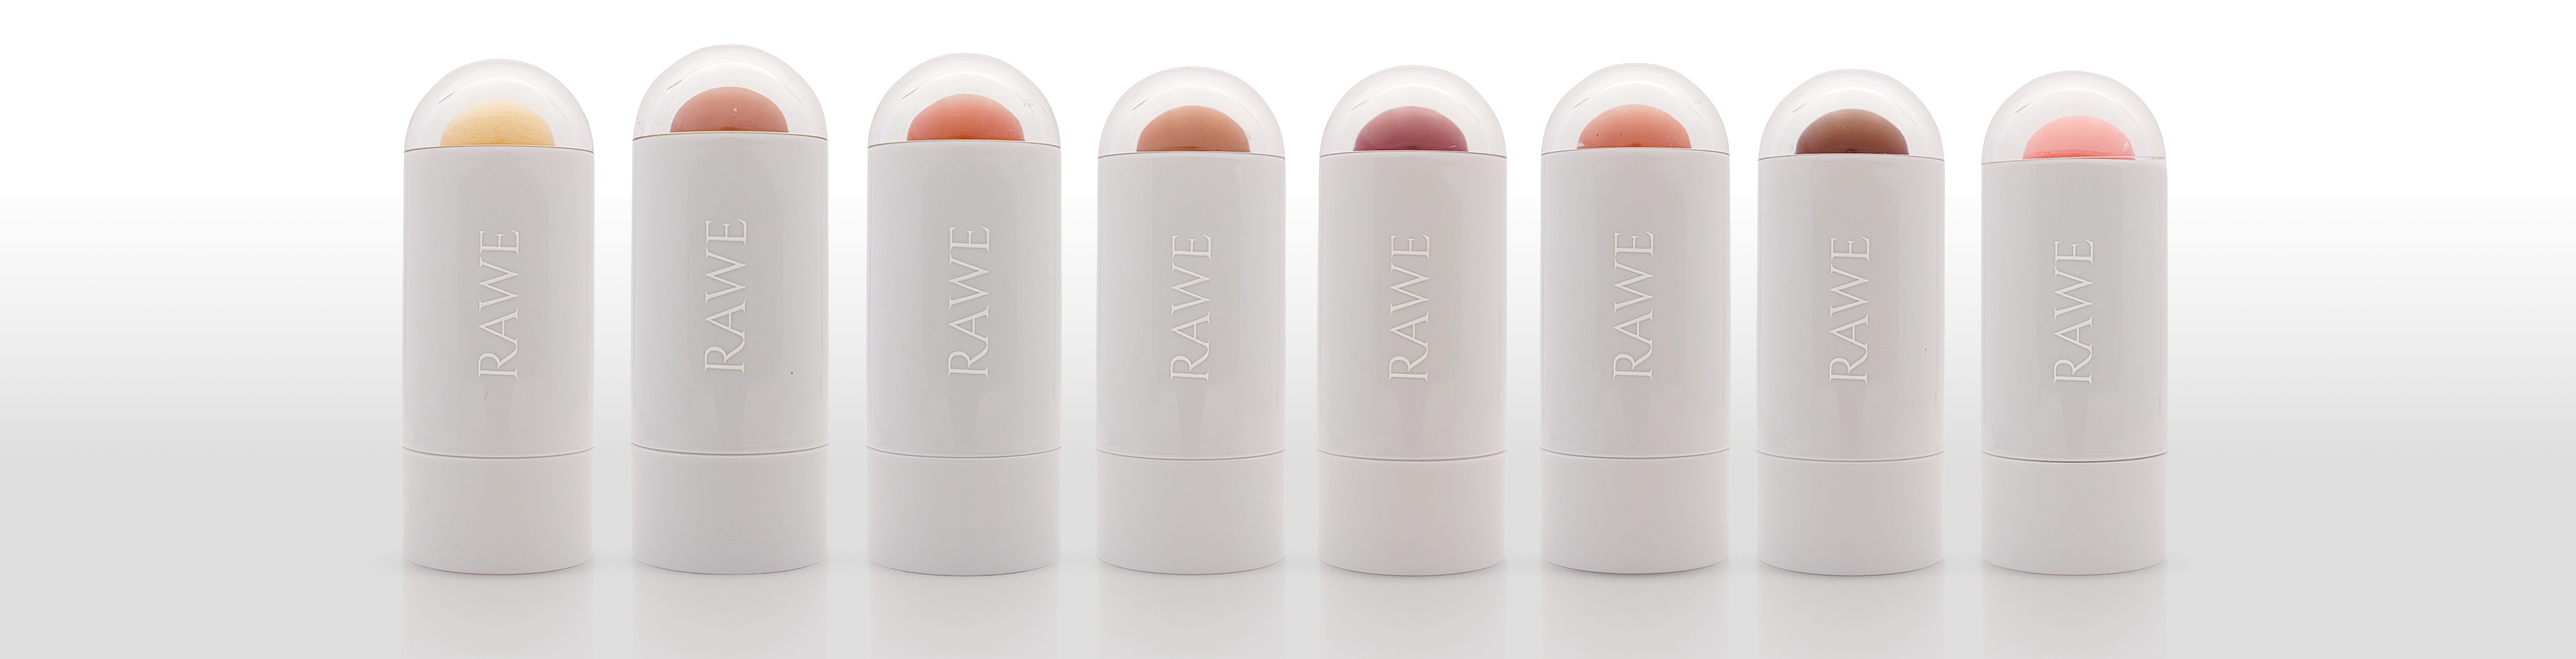
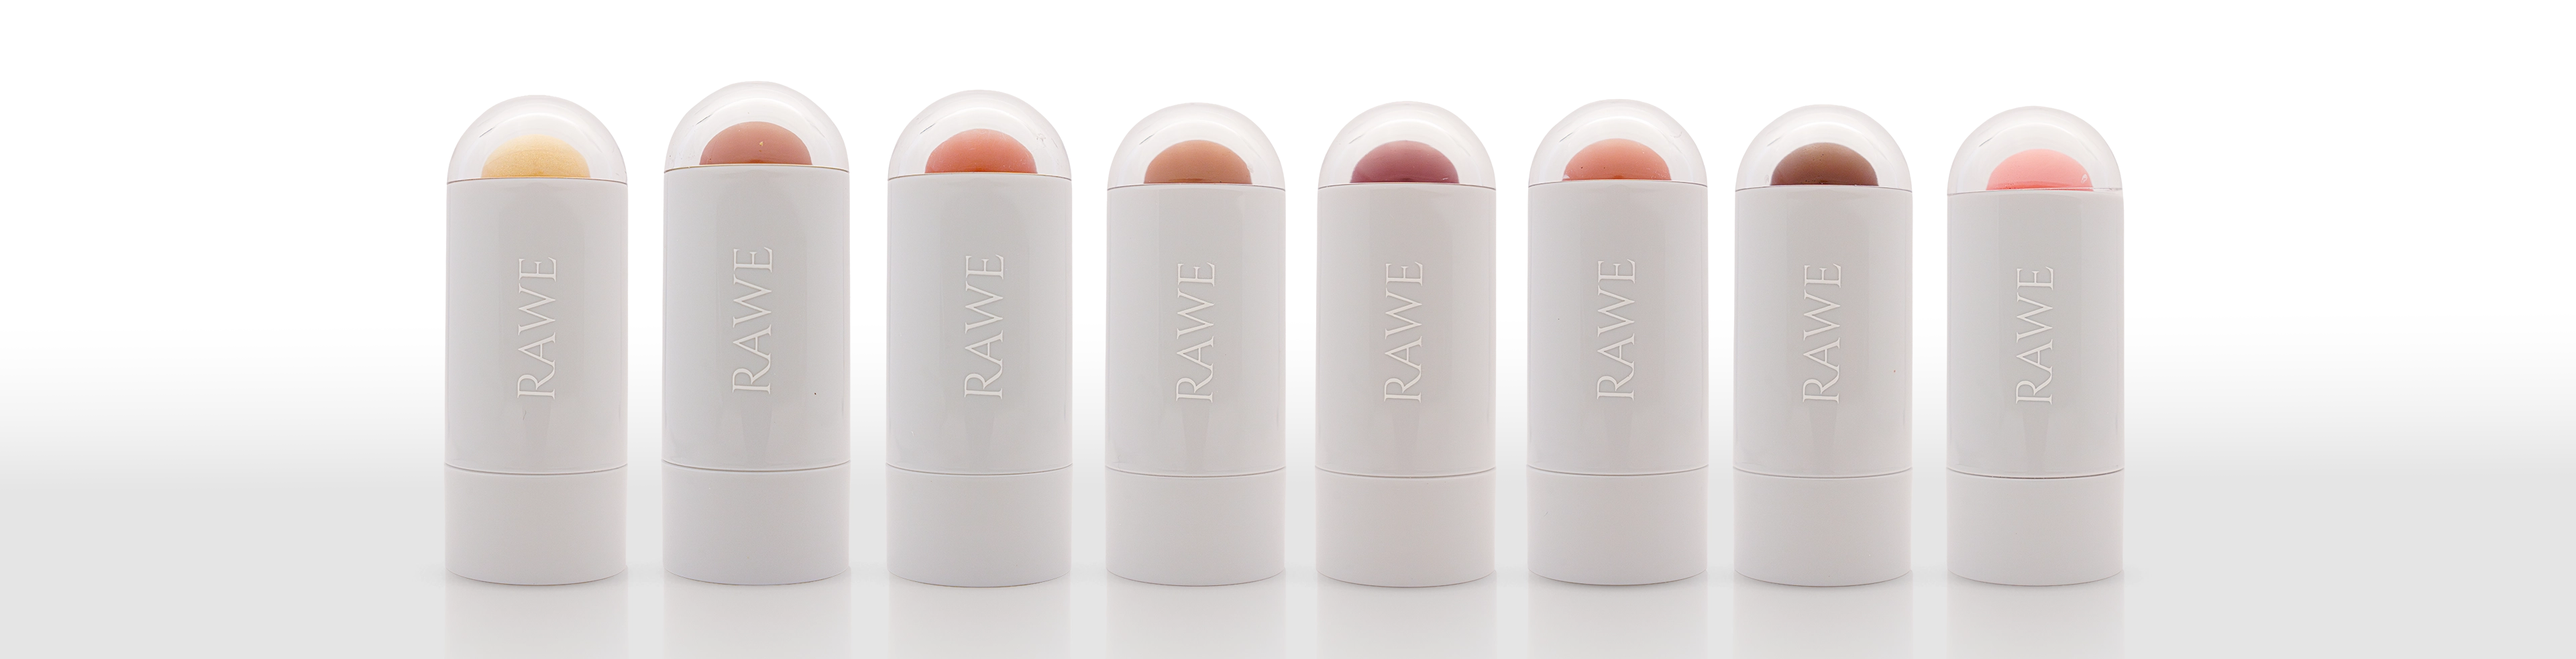
Rebuild LifestyleSection as looping arc carousel; new product images
- LifestyleSection: infinite center-focus arc carousel with new
  separated product webps, label/headline reveal + product fade-in
- Use new-products images for Our Products; small centered cards
- Fix Our Products pagination not revealing pages; transparent bg
- gsap force3D defaults for smoother scrubbed transforms

diff --git a/components/sections/LifestyleSection.tsx b/components/sections/LifestyleSection.tsx
@@ -4,65 +4,149 @@ import Image from "next/image";
 import { useGSAP } from "@gsap/react";
 import { gsap } from "@/lib/gsap-init";
 
-// ── Vertical position of the headline behind the products ──
-// Smaller % = higher up · Larger % = further down (it's % of the image height)
-const HEADLINE_TOP = "18%";
+const PRODUCTS = [
+  { name: "Summer Orange", src: "/assets/new-products/Summer orange_v1.webp" },
+  { name: "Cappucino",     src: "/assets/new-products/Cappucino_v1.webp" },
+  { name: "Spiced",        src: "/assets/new-products/Spiced_v1.webp" },
+  { name: "Rosewood",      src: "/assets/new-products/Rosewood_v1.webp" },
+  { name: "Plushing",      src: "/assets/new-products/Plushing_v1.webp" },
+  { name: "Rosy Posy",     src: "/assets/new-products/Rosy Posy_v1.webp" },
+  { name: "Cotton Candy",  src: "/assets/new-products/Cotton candy_v1.webp" },
+  { name: "Champagne",     src: "/assets/new-products/Champagne_v1.webp" },
+];
+
+// Render the list twice so the track can loop seamlessly.
+const LOOP = [...PRODUCTS, ...PRODUCTS];
+
+// Seconds for one full pass — higher = slower drift.
+const LOOP_DURATION = 58;
 
 export default function LifestyleSection() {
-  const ref = useRef<HTMLElement>(null);
+  const ref      = useRef<HTMLElement>(null);
+  const viewport = useRef<HTMLDivElement>(null);
+  const track    = useRef<HTMLDivElement>(null);
 
   useGSAP(() => {
-    gsap.fromTo(".ls-label",
-      { opacity: 0, y: 8 },
-      { opacity: 1, y: 0, duration: 0.7, ease: "power2.out",
-        scrollTrigger: { trigger: ref.current, start: "top 80%", once: true } }
-    );
-    gsap.fromTo(".ls-headline",
-      { opacity: 0, y: 28 },
-      { opacity: 1, y: 0, duration: 1.1, ease: "power3.out", delay: 0.1,
-        scrollTrigger: { trigger: ref.current, start: "top 80%", once: true } }
-    );
-    gsap.fromTo(".ls-image",
-      { opacity: 0 },
-      { opacity: 1, duration: 1.2, ease: "power2.out",
-        scrollTrigger: { trigger: ref.current, start: "top 80%", once: true } }
-    );
+    const sticks = gsap.utils.toArray<HTMLElement>(".ls-stick");
+    let drift: gsap.core.Tween | null = null;
+    const reveal = { p: 0 };   // 0 → hidden/blurred, 1 → fully shown
+
+    // Per-frame center focus: the stick nearest the viewport center
+    // scales up and becomes fully opaque; others shrink and fade.
+    const focus = () => {
+      const vp = viewport.current;
+      if (!vp) return;
+      const r = vp.getBoundingClientRect();
+      const mid = r.left + r.width / 2;
+      const reach = r.width / 2;
+      const ARC = r.width * 0.16;                   // how high the sides lift
+      sticks.forEach((el) => {
+        const b = el.getBoundingClientRect();
+        const d = Math.abs(b.left + b.width / 2 - mid);
+        const t = Math.min(d / reach, 1);          // 0 at center → 1 at edge
+        const scale   = gsap.utils.interpolate(1.18, 0.6, t);
+        const opacity = gsap.utils.interpolate(1, 0.4, t);
+        const lift    = -ARC * t * t;              // parabolic arc — rises toward the edges
+        el.style.transform = `translateY(${lift}px) scale(${scale})`;
+        el.style.opacity = `${opacity * reveal.p}`;
+        el.style.filter = reveal.p < 1 ? `blur(${(1 - reveal.p) * 16}px)` : "none";
+        el.style.zIndex = `${Math.round((1 - t) * 100)}`;
+      });
+    };
+
+    // Infinite horizontal drift — two copies, slide exactly one copy width.
+    drift = gsap.to(track.current, {
+      xPercent: -50,
+      duration: LOOP_DURATION,
+      ease: "none",
+      repeat: -1,
+    });
+    gsap.ticker.add(focus);
+
+    // ── Label + headline reveal ──
+    const intro = gsap.timeline({
+      scrollTrigger: { trigger: ref.current, start: "top 78%", once: true },
+    });
+
+    intro
+      .fromTo(".ls-label",
+        { opacity: 0, y: 18, letterSpacing: "0.9em", filter: "blur(6px)" },
+        { opacity: 1, y: 0, letterSpacing: "0.45em", filter: "blur(0px)", duration: 1, ease: "power3.out" }
+      )
+      .fromTo(".ls-word",
+        { opacity: 0, yPercent: 120, rotateX: -75, filter: "blur(10px)" },
+        { opacity: 1, yPercent: 0, rotateX: 0, filter: "blur(0px)",
+          duration: 1.1, ease: "power4.out", stagger: 0.09 },
+        "-=0.5"
+      )
+      .to(reveal, { p: 1, duration: 1.3, ease: "power2.out" }, "-=0.8");
+
+    return () => {
+      gsap.ticker.remove(focus);
+      drift?.kill();
+      intro.kill();
+    };
   }, { scope: ref });
 
   return (
-    <section ref={ref} id="lifestyle" className="relative overflow-hidden bg-hero pt-32 sm:pt-44 md:pt-60">
-
-      {/* Label — fixed near the top */}
-      <p
-        className="ls-label absolute inset-x-0 top-[12%] z-0 text-center text-[9px] sm:text-[11px] tracking-[0.45em] uppercase select-none pointer-events-none"
-        style={{ color: "rgba(0,0,0,0.45)" }}
-      >
-        Made for real life
-      </p>
-
-      {/* Headline behind — move up/down with HEADLINE_TOP above */}
-      <h2
-        className="ls-headline absolute inset-x-0 z-0 px-4 text-center font-display font-light leading-[1.0] text-[clamp(34px,7vw,120px)] select-none pointer-events-none"
-        style={{ top: HEADLINE_TOP, color: "rgba(0,0,0,0.05)" }}
-      >
-        Beauty That Fits
-        <br />
-        Your Everyday Life
-      </h2>
-
-      {/* Product image in front — defines section height, hides text behind it */}
-      <div className="ls-image relative z-10">
-        <Image
-          src="/assets/cover-prodcut.webp"
-          alt="RAWE blush sticks lineup"
-          width={3840}
-          height={983}
-          className="w-full h-auto block"
-          style={{ mixBlendMode: "multiply" }}
-          priority
-        />
+    <section
+      ref={ref}
+      id="lifestyle"
+      className="relative overflow-hidden bg-hero pt-14 sm:pt-20 md:pt-24 pb-0"
+    >
+      {/* Label + ghost headline */}
+      <div className="relative z-10 text-center px-5">
+        <p className="ls-label text-[10px] sm:text-[11px] tracking-[0.45em] uppercase text-mid/50">
+          Made for real life
+        </p>
+        <h2
+          className="mt-5 font-display font-light leading-[1.0] text-[clamp(34px,6.5vw,104px)]"
+          style={{ perspective: "800px", color: "rgba(0,0,0,0.13)" }}
+        >
+          {["Beauty", "That", "Fits"].map((w, i) => (
+            <span key={i} className="ls-word inline-block mr-[0.22em]">{w}</span>
+          ))}
+          <br />
+          {["Your", "Everyday", "Life"].map((w, i) => (
+            <span key={i} className="ls-word inline-block mr-[0.22em]">{w}</span>
+          ))}
+        </h2>
       </div>
 
+      {/* Looping carousel */}
+      <div
+        ref={viewport}
+        className="relative z-10 -mt-[14vw] overflow-hidden pt-[16vw]"
+        style={{
+          WebkitMaskImage:
+            "linear-gradient(to right, transparent, #000 12%, #000 88%, transparent)",
+          maskImage:
+            "linear-gradient(to right, transparent, #000 12%, #000 88%, transparent)",
+        }}
+      >
+        <div ref={track} className="flex w-max items-end will-change-transform">
+          {LOOP.map((p, i) => (
+            <div
+              key={i}
+              className="ls-stick relative shrink-0 w-[26vw] sm:w-[22vw] md:w-[19vw] px-[4vw]"
+              style={{ transformOrigin: "bottom center" }}
+            >
+              <Image
+                src={p.src}
+                alt={p.name}
+                width={700}
+                height={1629}
+                className="w-full h-auto block"
+                style={{
+                  WebkitMaskImage: "linear-gradient(to bottom, #000 82%, transparent 96%)",
+                  maskImage: "linear-gradient(to bottom, #000 82%, transparent 96%)",
+                }}
+                priority={i < PRODUCTS.length}
+              />
+            </div>
+          ))}
+        </div>
+      </div>
     </section>
   );
 }

diff --git a/data/shades.ts b/data/shades.ts
@@ -12,12 +12,12 @@ export type Shade = {
 const HOVER = "/assets/products/pro-hover.webp";
 
 export const shades: Shade[] = [
-  { id: "01", name: "Cappucino",      hex: "#C49A8A", label: "Romantic",  priceUSD: 25, image: "/assets/products/Cappucino.webp",       hoverImage: HOVER, swatch: "/assets/swatch/Cappucino.webp"      },
-  { id: "02", name: "Champagne Glow", hex: "#D4B896", label: "Radiant",   priceUSD: 25, image: "/assets/products/Champagne glow.webp",   hoverImage: HOVER, swatch: "/assets/swatch/Champagne.webp"      },
-  { id: "03", name: "Cotton Candy",   hex: "#F2C5C0", label: "Sheer",     priceUSD: 25, image: "/assets/products/Cotton candy.webp",     hoverImage: HOVER, swatch: "/assets/swatch/Cotton candy.webp"   },
-  { id: "04", name: "Plushing",       hex: "#E8A4A0", label: "Natural",   priceUSD: 25, image: "/assets/products/Plushing.webp",         hoverImage: HOVER, swatch: "/assets/swatch/Plushing.webp"       },
-  { id: "05", name: "Rosewood",       hex: "#A05870", label: "Dramatic",  priceUSD: 25, image: "/assets/products/Rosewood.webp",         hoverImage: HOVER, swatch: "/assets/swatch/Rosewood.webp"       },
-  { id: "06", name: "Rosy Posy",      hex: "#E8B89A", label: "Warm",      priceUSD: 25, image: "/assets/products/Rosy Posy.webp",        hoverImage: HOVER, swatch: "/assets/swatch/Rosy Posy.webp"      },
-  { id: "07", name: "Spiced",         hex: "#D98C80", label: "Vibrant",   priceUSD: 25, image: "/assets/products/Spiced.webp",           hoverImage: HOVER, swatch: "/assets/swatch/Spiced.webp"         },
-  { id: "08", name: "Summer Orange",  hex: "#E8A870", label: "Bold",      priceUSD: 25, image: "/assets/products/Summer orange.webp",    hoverImage: HOVER, swatch: "/assets/swatch/Summer orange.webp"  },
+  { id: "01", name: "Cappucino",      hex: "#C49A8A", label: "Romantic",  priceUSD: 25, image: "/assets/new-products/Cappucino_v1.webp",     hoverImage: HOVER, swatch: "/assets/swatch/Cappucino.webp"      },
+  { id: "02", name: "Champagne Glow", hex: "#D4B896", label: "Radiant",   priceUSD: 25, image: "/assets/new-products/Champagne_v1.webp",     hoverImage: HOVER, swatch: "/assets/swatch/Champagne.webp"      },
+  { id: "03", name: "Cotton Candy",   hex: "#F2C5C0", label: "Sheer",     priceUSD: 25, image: "/assets/new-products/Cotton candy_v1.webp",   hoverImage: HOVER, swatch: "/assets/swatch/Cotton candy.webp"   },
+  { id: "04", name: "Plushing",       hex: "#E8A4A0", label: "Natural",   priceUSD: 25, image: "/assets/new-products/Plushing_v1.webp",       hoverImage: HOVER, swatch: "/assets/swatch/Plushing.webp"       },
+  { id: "05", name: "Rosewood",       hex: "#A05870", label: "Dramatic",  priceUSD: 25, image: "/assets/new-products/Rosewood_v1.webp",       hoverImage: HOVER, swatch: "/assets/swatch/Rosewood.webp"       },
+  { id: "06", name: "Rosy Posy",      hex: "#E8B89A", label: "Warm",      priceUSD: 25, image: "/assets/new-products/Rosy Posy_v1.webp",      hoverImage: HOVER, swatch: "/assets/swatch/Rosy Posy.webp"      },
+  { id: "07", name: "Spiced",         hex: "#D98C80", label: "Vibrant",   priceUSD: 25, image: "/assets/new-products/Spiced_v1.webp",         hoverImage: HOVER, swatch: "/assets/swatch/Spiced.webp"         },
+  { id: "08", name: "Summer Orange",  hex: "#E8A870", label: "Bold",      priceUSD: 25, image: "/assets/new-products/Summer orange_v1.webp",  hoverImage: HOVER, swatch: "/assets/swatch/Summer orange.webp"  },
 ];

diff --git a/components/sections/ProductsSection.tsx b/components/sections/ProductsSection.tsx
@@ -20,7 +20,7 @@ function ShadeCard({ shade }: { shade: Shade }) {
           alt={shade.name}
           fill
           sizes="(max-width: 768px) 50vw, 25vw"
-          className="object-cover scale-90 transition-all duration-500 ease-out group-hover:scale-95"
+          className="object-contain scale-[0.68] transition-all duration-500 ease-out group-hover:scale-[0.74]"
         />
         {/* Hover image — crossfades in */}
         <Image
@@ -58,6 +58,7 @@ function ShadeCard({ shade }: { shade: Shade }) {
 export default function ProductsSection() {
   const ref = useRef<HTMLElement>(null);
   const trackRef = useRef<HTMLDivElement>(null);
+  const firstRender = useRef(true);
   const [page, setPage] = useState(0);
   const [animating, setAnimating] = useState(false);
   const [pulsing, setPulsing] = useState(false);
@@ -114,13 +115,29 @@ export default function ProductsSection() {
     { scope: ref }
   );
 
+  // Re-fade cards in on pagination (skip first render — scroll entrance handles that)
+  useGSAP(
+    () => {
+      if (firstRender.current) {
+        firstRender.current = false;
+        return;
+      }
+      gsap.fromTo(
+        ".shade-card",
+        { opacity: 0, y: 24 },
+        { opacity: 1, y: 0, duration: 0.5, ease: "power2.out", stagger: 0.08 }
+      );
+    },
+    { scope: ref, dependencies: [page] }
+  );
+
   const visible = shades.slice(page * perPage, page * perPage + perPage);
 
   return (
     <section
       ref={ref}
       id="products"
-      className="relative bg-products pt-2 pb-24 md:pt-2 md:pb-16"
+      className="relative z-[3] bg-transparent pt-2 pb-24 md:pt-2 md:pb-16"
     >
       {/* Title */}
       <div className="text-center px-5 sm:px-8 md:px-12 mb-12 sm:mb-18">
@@ -153,7 +170,7 @@ export default function ProductsSection() {
           }}
         >
           {visible.map((s, i) => (
-            <div key={s.id} className="shade-card relative" style={{ opacity: 0 }}>
+            <div key={s.id} className="shade-card relative">
               <ShadeCard shade={s} />
               {/* Next arrow floats centered on the last card */}
               {i === visible.length - 1 && page < totalPages - 1 && (
@@ -185,7 +202,7 @@ export default function ProductsSection() {
                     border: "1px solid rgba(255,255,255,0.6)",
                     backdropFilter: "blur(24px) saturate(200%) brightness(1.05)",
                     WebkitBackdropFilter: "blur(24px) saturate(200%) brightness(1.05)",
-                    boxShadow: "0 4px 24px rgba(0,0,0,0.08), inset 0 1.5px 0 rgba(255,255,255,0.75)",
+                    boxShadow: "0 4px 24px rgba(0,0,0,0.08), inset 0 0px 0 rgba(255,255,255,0.75)",
                   }}
                 >
                   <svg width="16" height="16" viewBox="0 0 16 16" fill="none">

diff --git a/app/globals.css b/app/globals.css
@@ -9,7 +9,7 @@
   --font-display: 'The Seasons', serif;
   --font-sans: 'Elms Sans', system-ui, sans-serif;
   --hero-bg: #F2F2F2;
-  --products-bg: #ededed;
+  --products-bg: #F2F2F2;
   --accent: #ea94ad;
   --text-dark: #1a1a1a;
   --text-mid: #6b6b6b;
@@ -83,6 +83,16 @@ body {
 .liquid-glass-btn:focus-visible {
   outline: 2px solid rgba(0, 0, 0, 0.25);
   outline-offset: 3px;
+}
+
+/* Hero CTA: drop backdrop-filter — the product image scales/moves behind
+   this button while the hero is pinned, and re-blurring the moving backdrop
+   every scroll frame is what stalls scroll-back into the hero. A static
+   translucent fill keeps the frosted look on the light hero background. */
+.hero-cta:not(:hover) {
+  background: rgba(255, 255, 255, 0.62);
+  backdrop-filter: none;
+  -webkit-backdrop-filter: none;
 }
 
 @keyframes cart-dropdown-in {

diff --git a/lib/gsap-init.ts b/lib/gsap-init.ts
@@ -4,6 +4,9 @@ import { ScrollTrigger } from "gsap/ScrollTrigger";
 
 if (typeof window !== "undefined") {
   gsap.registerPlugin(ScrollTrigger);
+  // force3D keeps every tweened transform on a GPU layer (translate3d/matrix3d)
+  // instead of a 2D matrix that repaints on each scroll frame.
+  gsap.defaults({ force3D: true });
 }
 
 export { gsap, ScrollTrigger };
